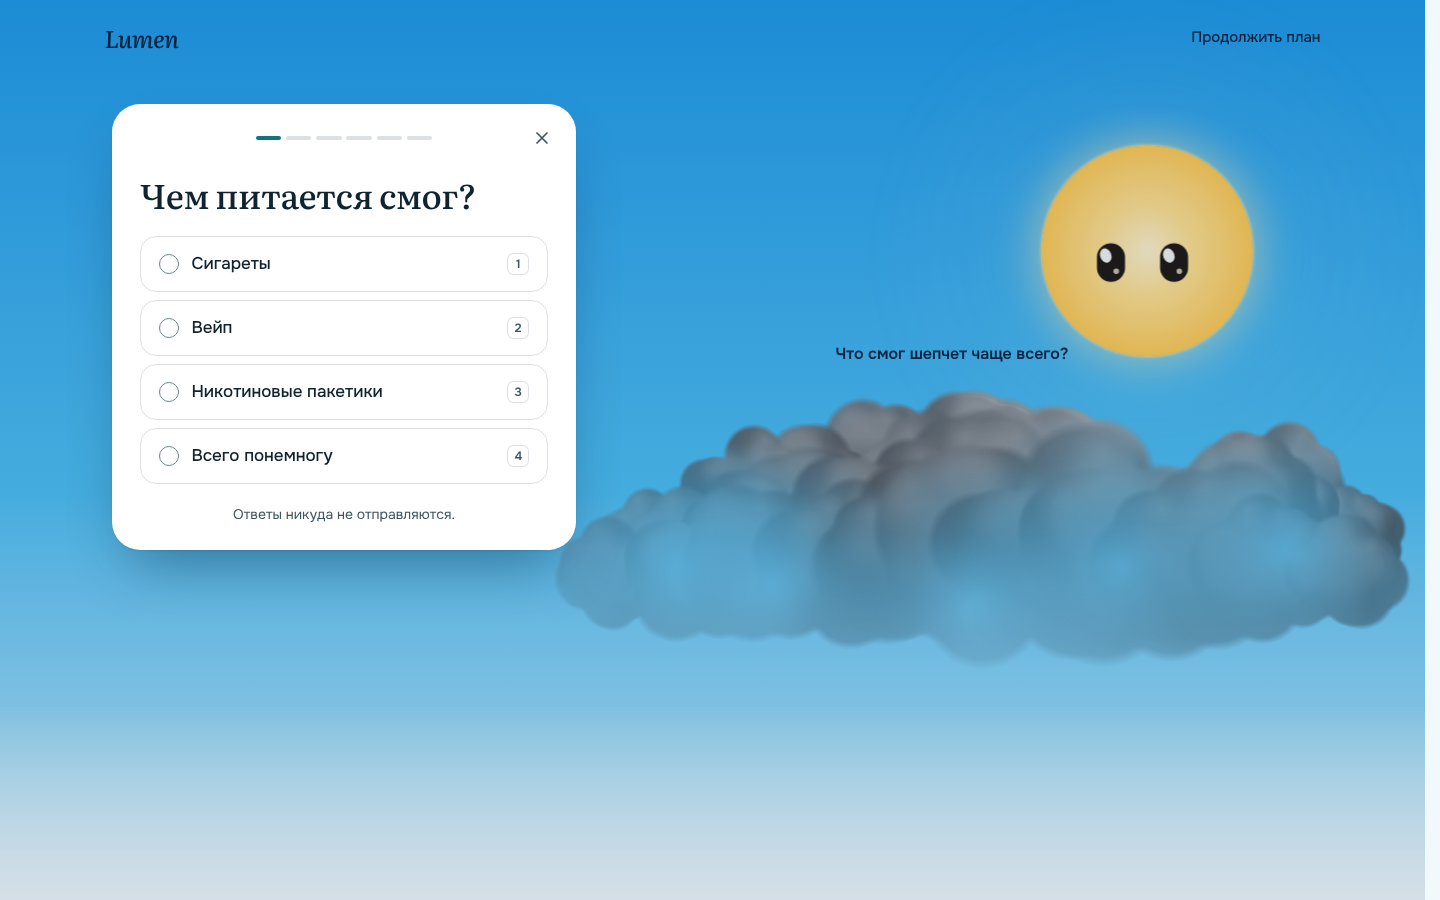
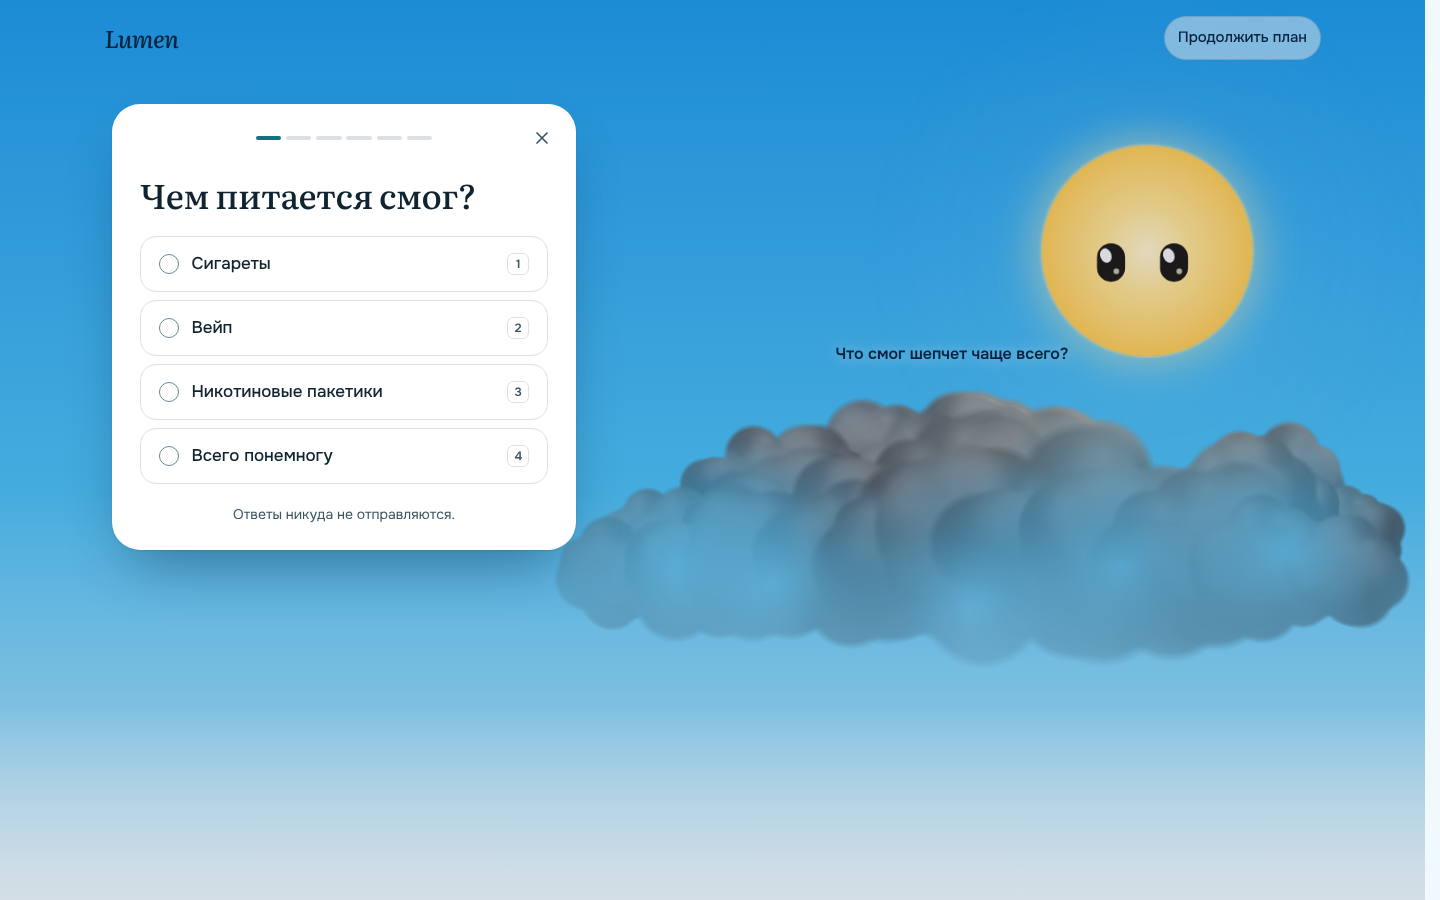
v9: round 3 polish (chat sender labels, example disclaimer, slider range, nav pill)
Warm rim light on the smog, FAQ order, calculator rows aligned, final
scene spacing.

Claude-Session: https://claude.ai/code/session_01CKqe4UyzFgn5AFv8yWGEaJ

Changed region(s): [[0.8125, 0.0, 0.9375, 0.0933]]

diff --git a/design/directions/v9.html b/design/directions/v9.html
@@ -34,7 +34,7 @@
 :root{
   --sky-top:#1E9BEA;--sky-mid:#4EC0F4;--sky-low:#BFEAFB;--sky-pale:#DDF2FC;--sky-wash:#F1F9FD;
   --sun:#FFC94D;--sun-core:#FFE08A;
-  --smog-body:#737B83;--smog-lit:#B4BBC2;--smog-shade:#2E343A;--smog-glow:236,238,240;
+  --smog-body:#737B83;--smog-lit:#B4BBC2;--smog-shade:#2E343A;--smog-glow:255,222,160;
   --nick:#2C3338;--nick-text:#EEF1F3;--nick-ring:rgba(255,255,255,.16);
   --ink:#06243F;--on-ink:#FFFFFF;
   --text:#0F2430;--muted:#3B5563;--rule:rgba(6,36,63,.14);
@@ -114,7 +114,7 @@ main,footer{position:relative;z-index:1}
 
 header.top{position:absolute;inset:0 0 auto 0;z-index:3;padding-top:env(safe-area-inset-top)}
 header.top .wrap{display:flex;justify-content:space-between;align-items:center;height:4.75rem}
-.login{display:inline-flex;align-items:center;min-height:2.75rem;padding-inline:.85rem;margin-right:-.85rem;color:var(--ink);font-weight:500;font-size:.9375rem;text-decoration:none;border-radius:999px;transition:background-color .15s ease}
+.login{background:rgba(255,255,255,.5);box-shadow:inset 0 0 0 1px rgba(6,36,63,.15);display:inline-flex;align-items:center;min-height:2.75rem;padding-inline:.85rem;margin-right:0;color:var(--ink);font-weight:500;font-size:.9375rem;text-decoration:none;border-radius:999px;transition:background-color .15s ease}
 
 .hero-inner{position:relative;z-index:2;min-height:100svh;display:grid;grid-template-columns:minmax(0,7fr) minmax(0,5fr);
   column-gap:3rem;padding-block:calc(6rem + env(safe-area-inset-top)) clamp(3.5rem,9vh,6rem);align-items:center;pointer-events:none}
@@ -225,9 +225,10 @@ input[type=range]:focus-visible::-moz-range-thumb{box-shadow:0 0 0 2px var(--sky
 @media (min-width:861px){.how-grid{grid-template-columns:minmax(0,5fr) minmax(0,6fr);gap:clamp(3rem,7vw,7rem);align-items:start}.how-side{position:sticky;top:6rem}.talk p{max-width:100%}.talk .t-me{margin-left:12%}}
 @media (max-width:860px){.how-grid{grid-template-columns:minmax(0,1fr)}.how-side{position:static}}
 .talk p{max-width:min(34rem,88%);padding:.8rem 1.15rem;font-size:clamp(1.0625rem,1.4vw,1.25rem);line-height:1.4;text-wrap:pretty}
+.who-l{font-size:.875rem;font-weight:600;color:var(--muted);margin:0 0 -.2rem .35rem}.who-l.me{align-self:flex-end;margin:.2rem .35rem -.2rem 0}
 .t-nick{background:var(--nick);color:var(--nick-text);border-radius:1.4rem 1.4rem 1.4rem .4rem;width:fit-content;box-shadow:inset 0 0 0 1px var(--nick-ring)}
 .t-me{align-self:flex-end;background:var(--me);color:var(--me-text);border-radius:1.4rem 1.4rem .4rem 1.4rem;margin-bottom:1rem}
-.t-me b{display:block;font:500 clamp(1.25rem,1.8vw,1.5rem)/1.2 var(--f-display);letter-spacing:-.01em;margin-bottom:.2rem}
+.t-me b{display:block;font-weight:600;margin-bottom:.15rem}
 .steps{list-style:none;display:grid;grid-template-columns:repeat(3,minmax(0,1fr));gap:clamp(2rem,4vw,4rem);margin-top:clamp(3rem,6vw,5rem);counter-reset:s}
 .steps li{counter-increment:s;border-top:1px solid var(--rule);padding-top:1.5rem}
 .steps li::before{content:counter(s);display:block;font:500 clamp(3rem,5vw,4.5rem)/1 var(--f-display);font-variant-numeric:lining-nums;color:var(--act);margin-bottom:1.25rem}
@@ -293,13 +294,14 @@ input[type=range]:focus-visible::-moz-range-thumb{box-shadow:0 0 0 2px var(--sky
 .calc{max-width:44rem;margin-top:clamp(2rem,4vw,3rem)}
 .calc label{display:block;font-weight:500;color:var(--muted)}
 .calc output{display:block;font:500 clamp(1.75rem,2.6vw,2.25rem)/1.1 var(--f-display);letter-spacing:-.015em;color:var(--text);margin:.35rem 0 .25rem}
+.rng{display:flex;justify-content:space-between;font-size:.875rem;color:var(--muted);margin-top:-.3rem}
 .year{font:500 clamp(4rem,10vw,8.5rem)/.92 var(--f-display);letter-spacing:-.03em;font-variant-numeric:lining-nums tabular-nums;margin-top:clamp(2rem,4vw,3rem);white-space:nowrap}
-.year .per{font-size:.4em;letter-spacing:-.01em;margin-left:.3em;color:var(--muted)}
+.year .per{font-size:.4em;letter-spacing:-.01em;margin-left:.15em;color:var(--muted)}
 .year-row{display:grid;grid-template-columns:minmax(0,1fr) minmax(0,22rem);gap:1rem clamp(2rem,5vw,5rem);align-items:end}
 .yl{list-style:none;display:grid;border-top:1px solid var(--rule)}
-.yl li{display:flex;justify-content:space-between;gap:1rem;padding:.7rem 0;border-bottom:1px solid var(--rule);font-variant-numeric:lining-nums tabular-nums}
+.yl li{display:grid;grid-template-columns:minmax(7rem,9rem) 1fr;align-items:baseline;gap:1rem;padding:.7rem 0;border-bottom:1px solid var(--rule);font-variant-numeric:lining-nums tabular-nums}
 .yl b{font:500 1.375rem/1.2 var(--f-display)}
-.yl span{color:var(--muted);text-align:right;align-self:center}
+.yl span{color:var(--muted);text-align:left}
 @media (max-width:1100px){.year-row{grid-template-columns:minmax(0,1fr)}}
 @media (max-width:1100px){.year-row{grid-template-columns:minmax(0,1fr)}}
 .year-note{font-size:clamp(1.125rem,1.6vw,1.375rem);margin:.9rem 0 0;max-width:40rem;text-wrap:pretty}
@@ -344,7 +346,7 @@ input[type=range]:focus-visible::-moz-range-thumb{box-shadow:0 0 0 2px var(--sky
 .final{position:relative;color:var(--ink);text-align:left;background:linear-gradient(in oklab 180deg,transparent 0,var(--sky-low) 10rem,var(--sky-mid) 55%,var(--sky-top) 82%,var(--bg))}
 html[data-sky="clear"] footer{background:var(--sky-top);color:var(--ink)}
 html[data-sky="clear"] footer .brand{color:var(--ink)}
-.final .wrap{display:flex;flex-direction:column;align-items:flex-start;padding-block:clamp(7rem,16vw,12rem) clamp(5rem,10vw,8rem)}
+.final .wrap{display:flex;flex-direction:column;align-items:flex-start;padding-block:clamp(5rem,11vw,8rem) clamp(5rem,10vw,8rem)}
 .final .nick-say{justify-content:center}
 .final .h2{font-size:clamp(2.5rem,5.4vw,4.75rem);max-width:15ch}
 .final .btn{margin-top:2.5rem}
@@ -492,7 +494,7 @@ html:has(dialog.plan[open]) .hero-inner .copy,html:has(dialog.plan[open]) .hero-
 .b::after{content:"›";margin-left:auto;padding-left:.4rem;opacity:.6;font-size:1.25em;line-height:1}
 @media (hover:hover) and (pointer:fine){.b.in:hover{filter:brightness(1.12)}}
 .b.in:active{transform:scale(.985)}
-.ask{font-weight:600;font-size:1rem;color:var(--ink)}
+.ask{text-shadow:0 0 14px rgba(190,230,250,.9);font-weight:600;font-size:1rem;color:var(--ink)}
 .who .st{display:none}
 .hero-note{margin-top:1.1rem;font-size:.9375rem;color:var(--ink);opacity:.85}
 .trg{margin-top:.5rem;font-size:.9375rem;color:var(--muted)}
@@ -597,7 +599,9 @@ html:has(dialog.plan[open]) .hero-inner .copy,html:has(dialog.plan[open]) .hero-
   <div class="wrap">
     <div class="how-grid"><div class="how-side rv"><h2 class="h2 how-h" id="how-h">Как это работает</h2><p class="sub">Смог будет шептать. Вот что ты ему ответишь — и&nbsp;чем приложение в&nbsp;этом поможет.</p></div>
     <div class="talk" aria-label="Переписка: как это работает">
+      <p class="who-l rv">Смог</p>
       <p class="t-nick rv">ну и&nbsp;что ты будешь делать без меня?</p>
+      <p class="who-l me rv">Lumen</p>
       <p class="t-me rv"><b>Сначала — план.</b> Несколько вопросов, и&nbsp;у&nbsp;меня есть день старта и&nbsp;первые две недели по шагам.</p>
       <p class="t-nick rv">а&nbsp;когда тебя накроет?</p>
       <p class="t-me rv"><b>Открою «Волну».</b> Подышу и&nbsp;посмотрю, как тяга поднимается и&nbsp;спадает. Обычно это несколько минут.</p>
@@ -637,7 +641,7 @@ html:has(dialog.plan[open]) .hero-inner .copy,html:has(dialog.plan[open]) .hero-
       <div class="strip-n" id="strip-n" aria-hidden="true"></div>
     </div>
     <div class="slip-row">
-      <p class="tally rv">23 дня из 24 без никотина<span>Серый день 17-го никуда не&nbsp;делся. Остальные 23 — тоже.</span></p>
+      <p class="tally rv">23 дня из 24 без никотина<span>Серый день 17-го никуда не&nbsp;делся. Остальные 23 — тоже. Это пример, не твои данные.</span></p>
       <div class="rv">
         <div class="exchange" aria-label="Переписка после срыва">
           <p class="x-nick">ну всё, ты снова со мной 🙂</p>
@@ -669,6 +673,7 @@ html:has(dialog.plan[open]) .hero-inner .copy,html:has(dialog.plan[open]) .hero-
       <label for="spend">Уходит на никотин</label>
       <output id="spend-v" class="num" for="spend">250 ₽ в день</output>
       <input type="range" id="spend" min="50" max="1000" step="10" value="250">
+      <div class="rng" aria-hidden="true"><span>50&nbsp;₽</span><span>1&nbsp;000&nbsp;₽</span></div>
     </div>
     <div class="year-row"><p class="year rv"><span class="num" id="year">91 250 ₽</span><span class="per">в год</span></p>
     <ul class="yl rv" id="year-note"></ul></div>
@@ -705,10 +710,10 @@ html:has(dialog.plan[open]) .hero-inner .copy,html:has(dialog.plan[open]) .hero-
     </div>
     <div class="faq rv">
             <details open><summary>Как отменить подписку?<i aria-hidden="true"></i></summary><p>В&nbsp;настройках, одним нажатием, без вопросов «а&nbsp;может, останешься». За два дня до каждого списания пришлём напоминание.</p></details>
+      <details><summary>Это лечение?<i aria-hidden="true"></i></summary><p>Нет. Lumen помогает бросить и&nbsp;не&nbsp;заменяет врача.</p></details>
       <details><summary>Уже были попытки бросить. Почему сейчас получится?<i aria-hidden="true"></i></summary><p>Попыток бывает много, и&nbsp;это нормально. Здесь срыв не&nbsp;обнуляет счётчик, а&nbsp;помогает понять, что именно сорвало, — и&nbsp;подготовиться к&nbsp;этому моменту в&nbsp;следующий раз.</p></details>
       <details><summary>Подходит для вейпа и&nbsp;пакетиков?<i aria-hidden="true"></i></summary><p>Да. Смог один и&nbsp;тот&nbsp;же — никотин. Неважно, в&nbsp;чём он приходит.</p></details>
       <details><summary>Можно вместе с&nbsp;пластырем или жвачкой?<i aria-hidden="true"></i></summary><p>Да. Никотинозаместительную терапию обсуди с&nbsp;врачом: приложение её не&nbsp;заменяет, но&nbsp;помогает с&nbsp;привычками и&nbsp;тягой.</p></details>
-      <details><summary>Это лечение?<i aria-hidden="true"></i></summary><p>Нет. Lumen помогает бросить и&nbsp;не&nbsp;заменяет врача.</p></details>
     </div>
   </div>
 </section>
